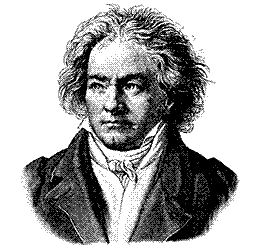
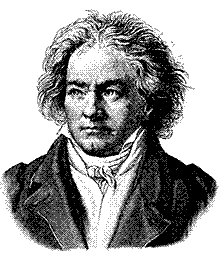
coposer

diff --git a/_layouts/default.html b/_layouts/default.html
@@ -15,7 +15,7 @@
 	<body>
 		<div id="main">
 			<header>
-				<img src="/composer.js/images/composer.png" width="254" height="250" alt="composer">
+				<img src="/composer.js/images/composer.png" width="219" height="260" alt="composer">
 				<h1><a href="/composer.js">Composer.js</a></h1>
 				<ul>
 					<li>
